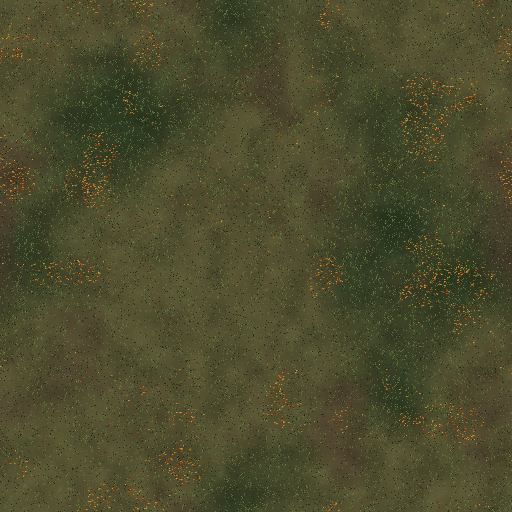
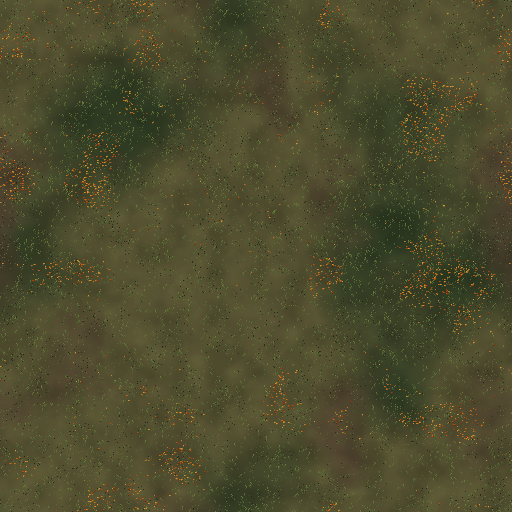
1.48.0: calmer settlement grass, version bump and release notes
Claude-Session: https://claude.ai/code/session_01Q3d652Ep37MrDZiN13QEse

diff --git a/tools/wa_settlement_ground.py b/tools/wa_settlement_ground.py
@@ -163,8 +163,11 @@ def grass_leaves(seed=305, dry=0.0):
     g *= (0.80 + 0.36 * n2)[..., None]
     t.rgb = g
     A = _all(t)
-    t.speckle(A, 0.06, [(88, 104, 54), (98, 112, 60), (70, 86, 44)], seed=seed + 4)
-    t.speckle(A, 0.03, [(34, 42, 26), (40, 48, 30)], seed=seed + 5)
+    # 1.48: blades in clumps, not salt-and-pepper over every texel
+    clump = fbm(S, S, 14, seed + 6, 2) > 0.5
+    t.speckle(A & clump, 0.05, [(88, 104, 54), (98, 112, 60), (70, 86, 44)], seed=seed + 4)
+    t.speckle(A & ~clump, 0.012, [(80, 96, 50)], seed=seed + 7)
+    t.speckle(A & clump, 0.02, [(34, 42, 26), (40, 48, 30)], seed=seed + 5)
     _weeds(t, rng, soil < 0.4, 900)
     _leaves(t, seed, 0.08, 0.012)
     return t.image()

diff --git a/RELEASE_1480_RU.md b/RELEASE_1480_RU.md
@@ -1,0 +1,38 @@
+# ОСТАТОК 1.48.0 — Интерьеры 2.0 и окружение
+
+## Интерьеры
+
+- **Свет и тени в комнатах.** Пол темнеет у стен, в углах и под мебелью, вокруг
+  шкафов и кроватей появилась мягкая тень, середина комнаты остаётся светлой.
+  - Затенение запекается один раз на здание по стенам, перегородкам и мебели и
+    накладывается шейдером, без покадровых расчётов.
+- **Новые полы.** Восемь бесшовных материалов вместо сетки из квадратов 32×32.
+  Генератор — `tools/interior_floors_v2.py`.
+  - Материалы: кафель поликлиники, листовой линолеум магазина, бетон со швом и
+    масляными пятнами, паркет, крашеные половицы, линолеум с узором, бытовая
+    плитка, крашеный бетон гаража.
+  - В жилых домах материал меняется от дома к дому.
+  - В больших залах пол бетонный, а грязь на полу стала мягче.
+- **Стены и перегородки.** Раньше это были плоские тёмные полосы. Теперь у стен
+  штукатурный верх, тёмный контур, светлая кромка со стороны света и тень с другой
+  стороны. У перегородок, идущих поперёк, видна низкая грань с плинтусом.
+
+## Окружение
+
+- **Кусты.** Оранжевый, жёлтый и зелёный кусты заново сделаны в Blender: мелкая
+  листва, тёмная глубина внутри, неровный край. Это самые частые спрайты на улице.
+  Генератор — `tools/blender/vegetation_v2.py`.
+- **Газоны.** Оранжевые листья больше не рассыпаны ровным «конфетти», а собраны
+  в наносы. На траве появились кочки, сухие пятна и вытоптанная земля у дорожек.
+  Сделано и в городе, и в поселениях.
+- **Асфальт.** Квадратные латки шейдера убраны совсем: на текстуре дорог уже
+  есть свои неровные ремонты.
+- **Поселения.**
+  - Лужи теперь HD, с отражениями, как в остальном мире; рубленые
+    многоугольники убраны.
+  - Прямоугольные «латки» убраны.
+  - Решётки ливнёвок больше не светятся оранжевым.
+
+## Проверка
+
+Полный набор автотестов, SELFTEST, проходы по интерьерам и улицам.
